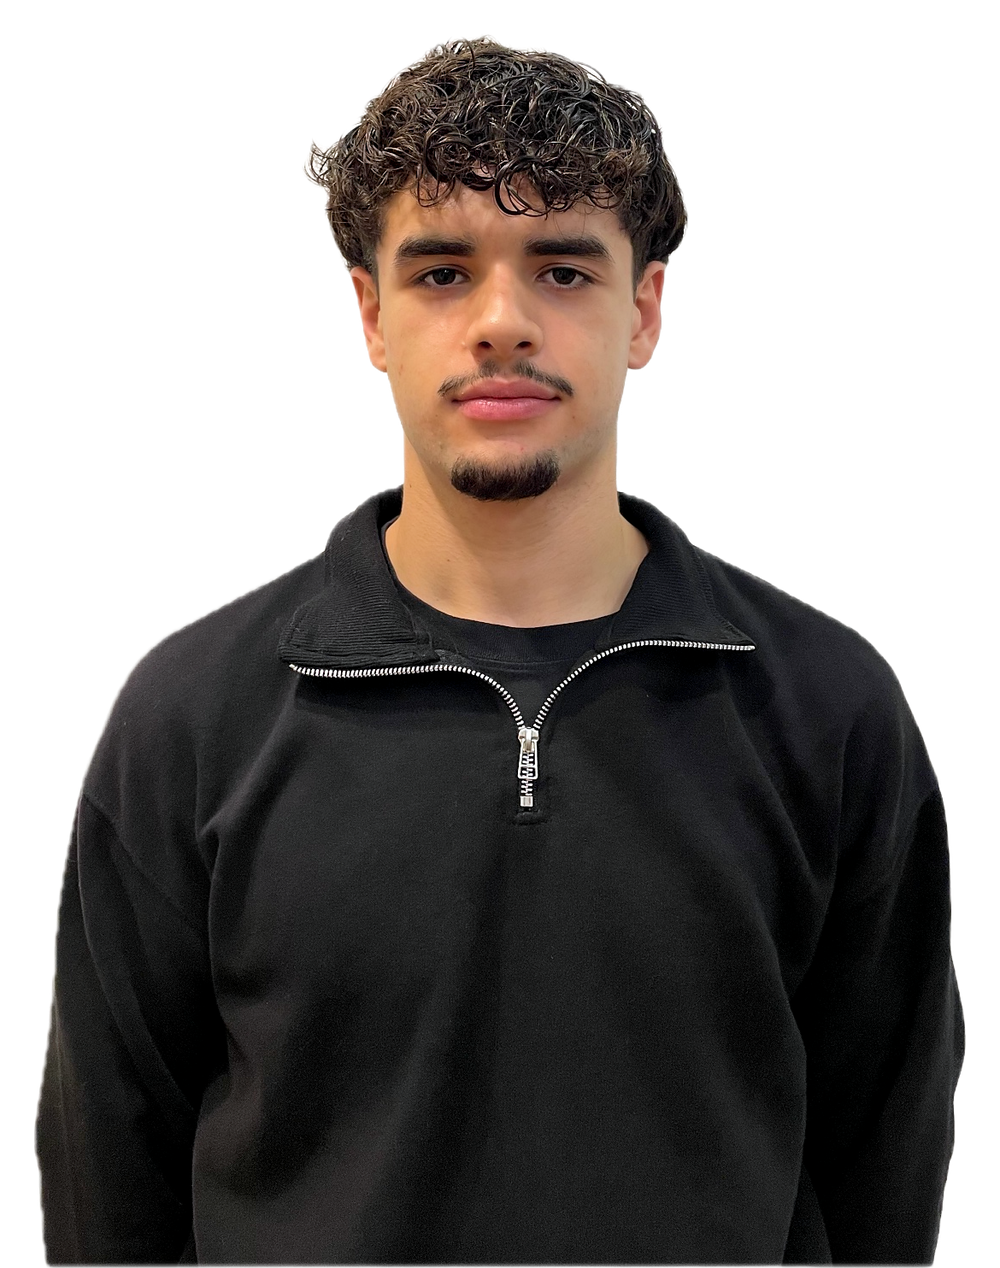
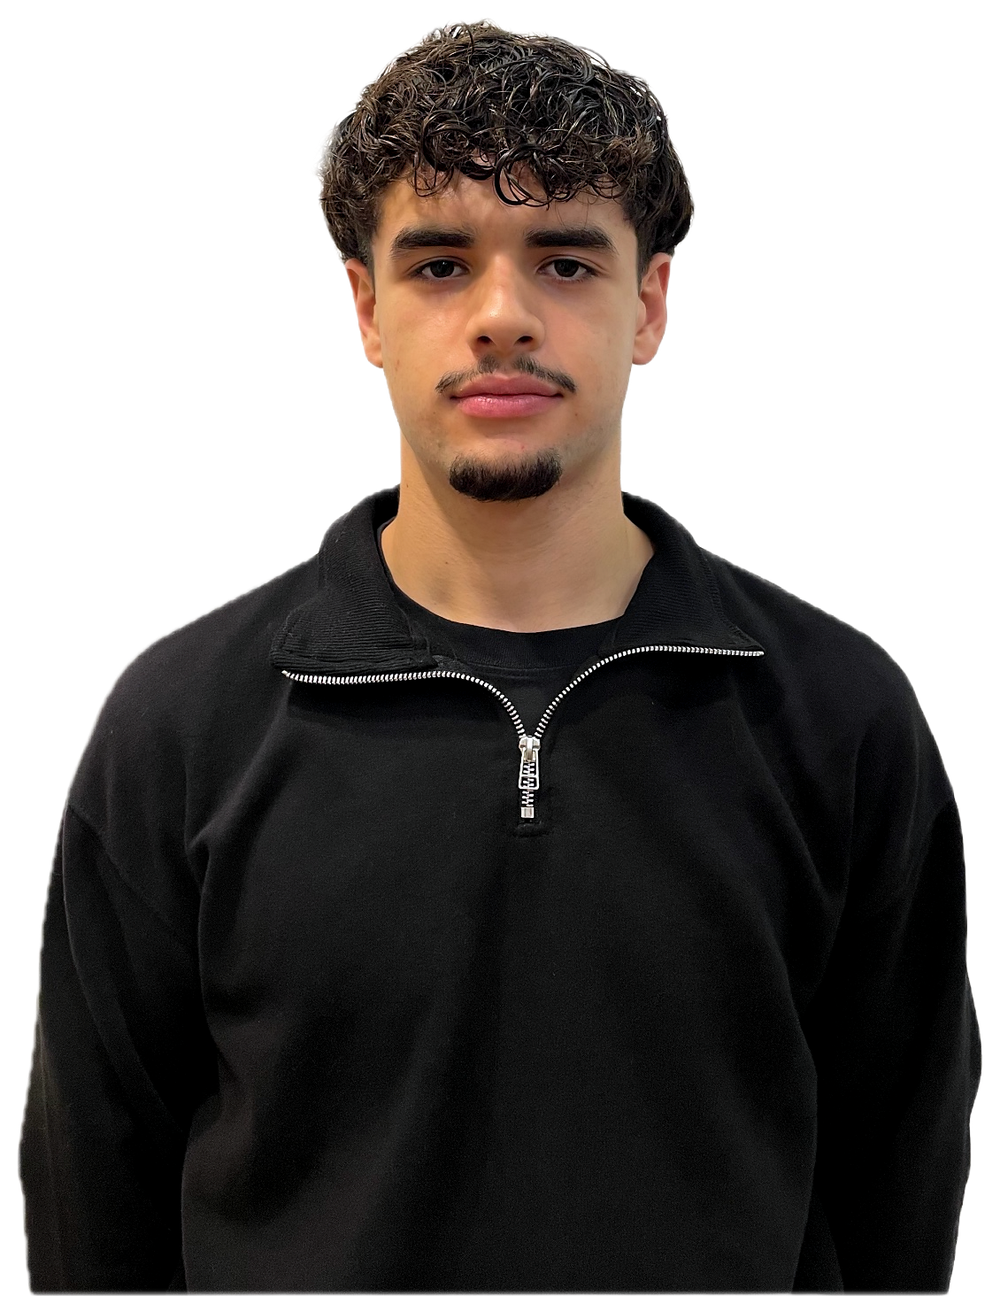
Foto nova no topo, mais pequena
Claude-Session: https://claude.ai/code/session_01ATisBaXTPhjZ1ABqZYmErz

diff --git a/index.html b/index.html
@@ -96,7 +96,7 @@
   }
   .foto .falta b { display: block; font-size: 20px; color: var(--branco); }
   .foto .moldura-foto { position: absolute; inset: 0; border-radius: 18px; overflow: hidden; }
-  .foto img { position: absolute; left: 50%; bottom: 0; height: 92%; width: auto; max-width: none; transform: translateX(-50%); }
+  .foto img { position: absolute; left: 50%; bottom: 0; height: 80%; width: auto; max-width: none; transform: translateX(-50%); }
   .titulo-principal h1 {
     font-family: var(--titulo); font-weight: 400; text-transform: uppercase;
     font-size: clamp(56px, 8.6vw, 124px); line-height: 1.15; margin: -.12em 0 -.08em; padding: .1em 0 0; white-space: nowrap;
